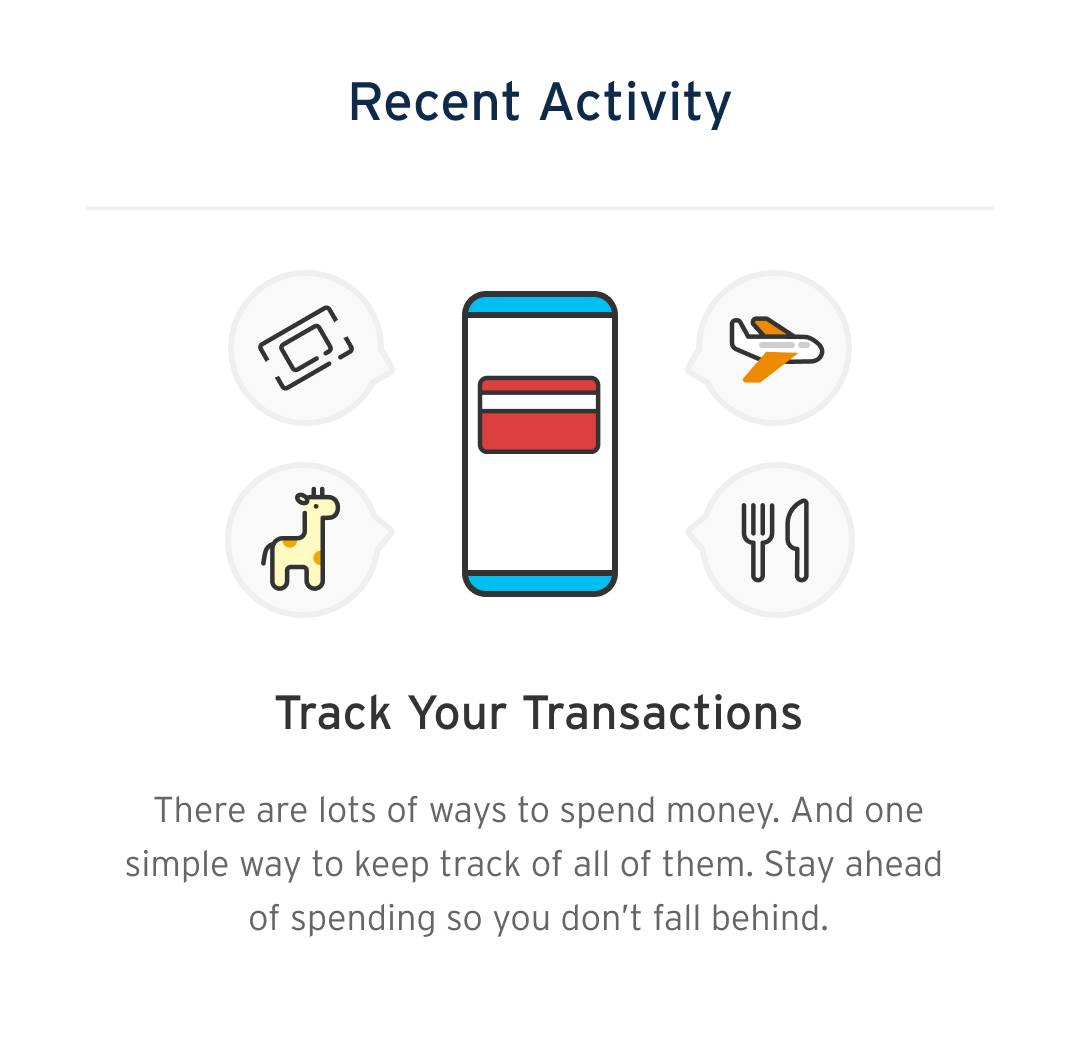
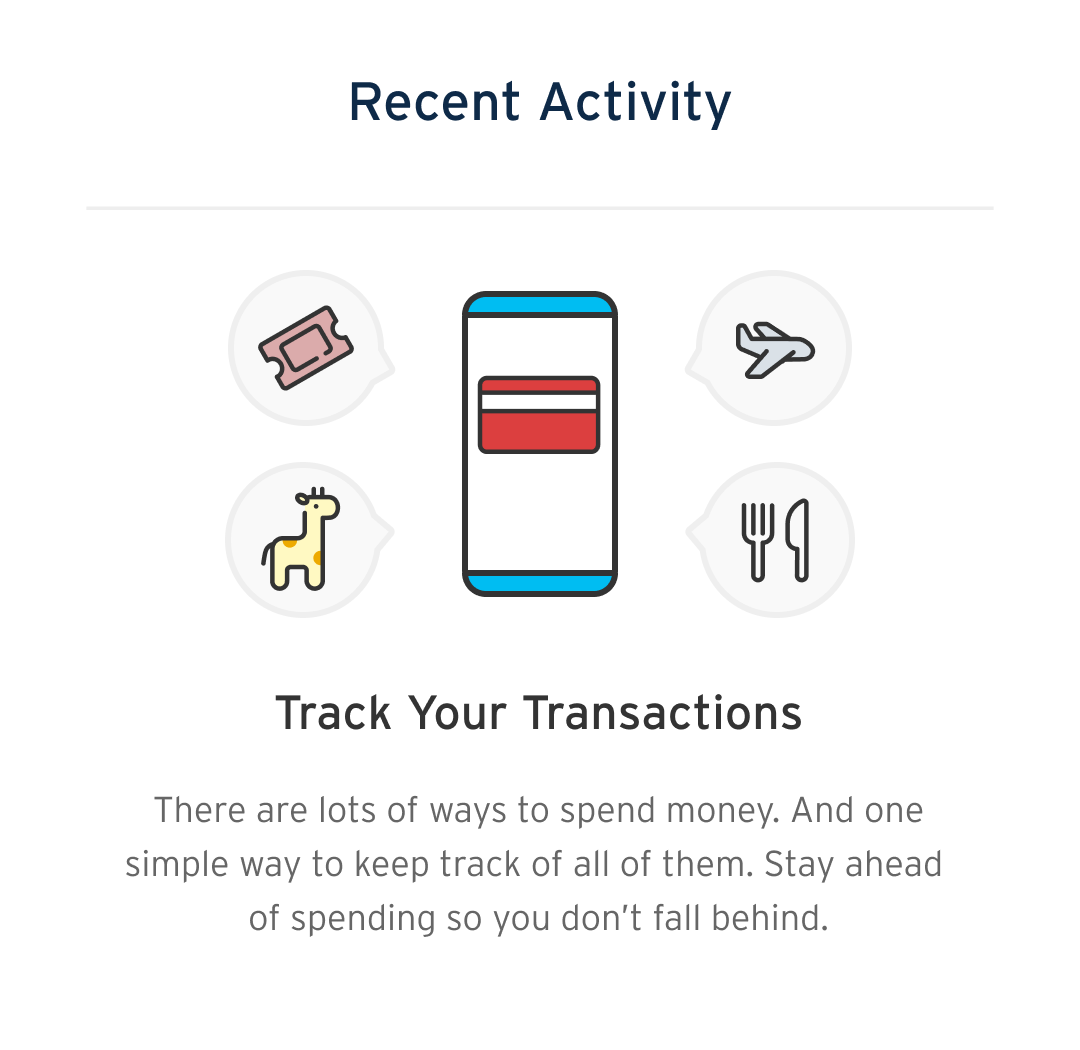
Update the Citi recent activity tile.

Changed region(s): [[0.2444, 0.2743, 0.3361, 0.3657], [0.6722, 0.3048, 0.7639, 0.3657]]

diff --git a/citi-mobile-banking.html b/citi-mobile-banking.html
@@ -363,7 +363,7 @@
               </figure>
               <figure class="cs-gallery__item citi-shot citi-shot--activity">
                 <img
-                  src="assets/case-studies/citi-mobile/recent-activity.png"
+                  src="assets/case-studies/citi-mobile/recent-activity.png?v=20261025k"
                   alt="Recent activity tile"
                   width="1080"
                   height="1050"
